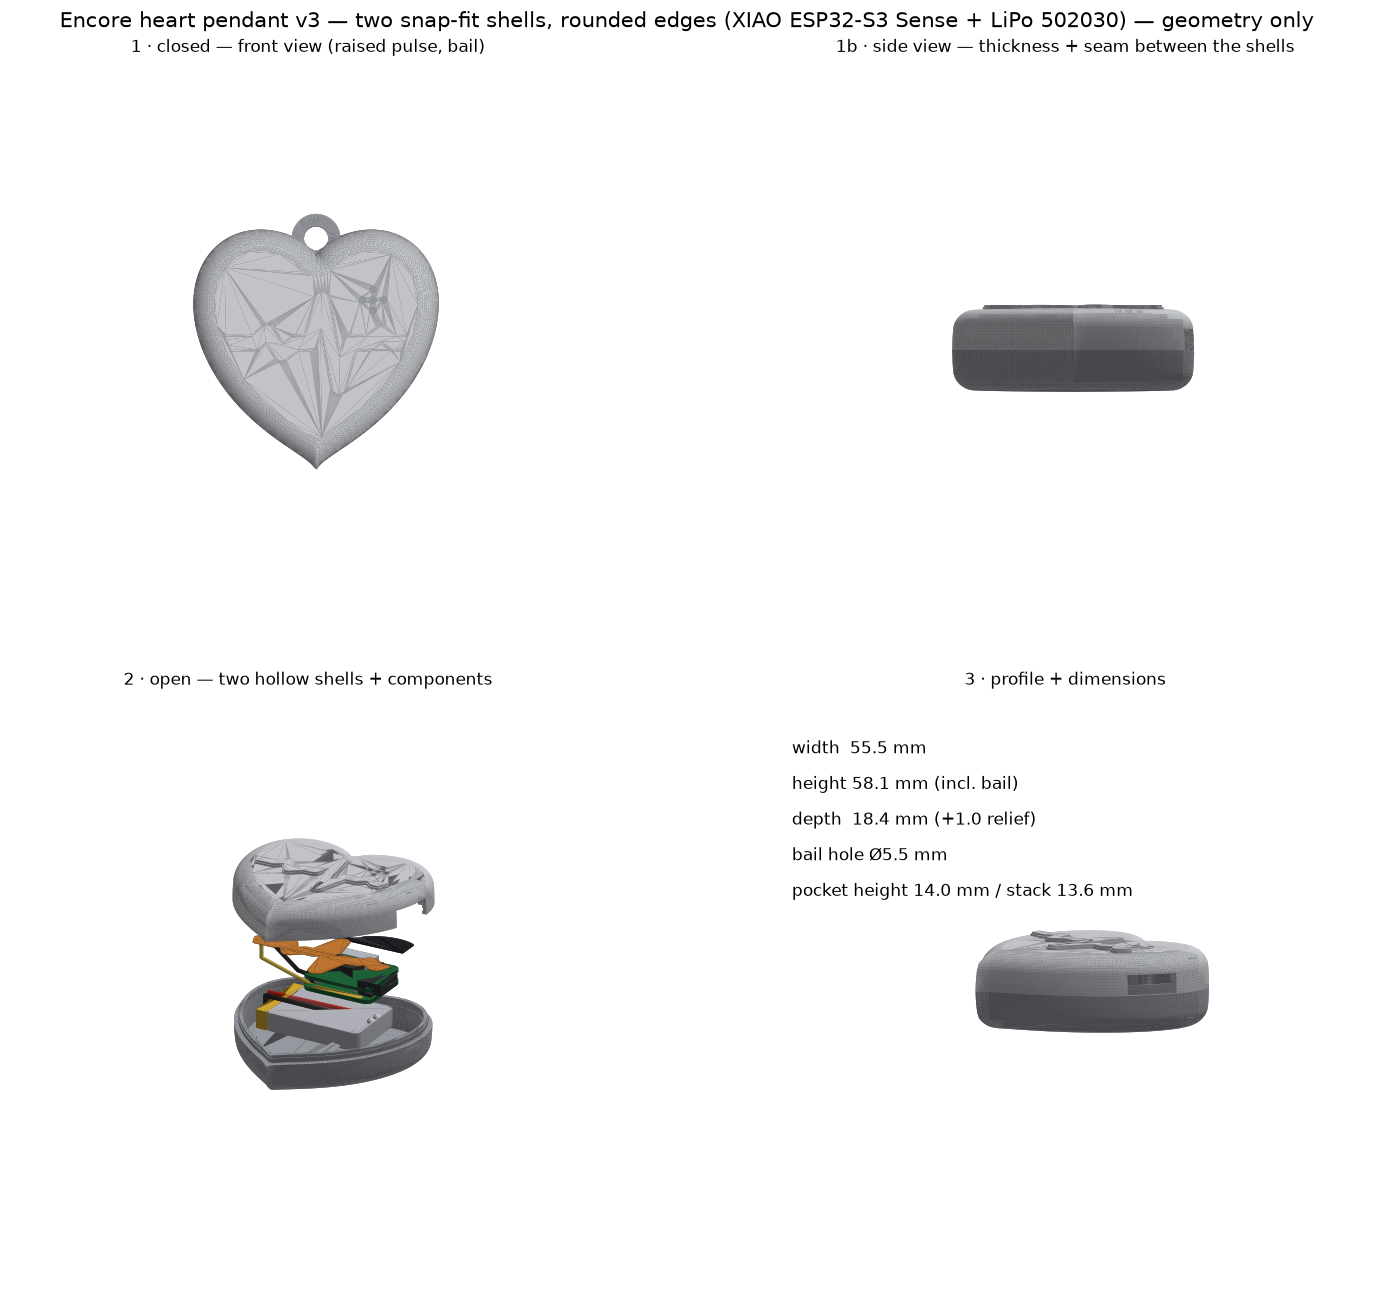
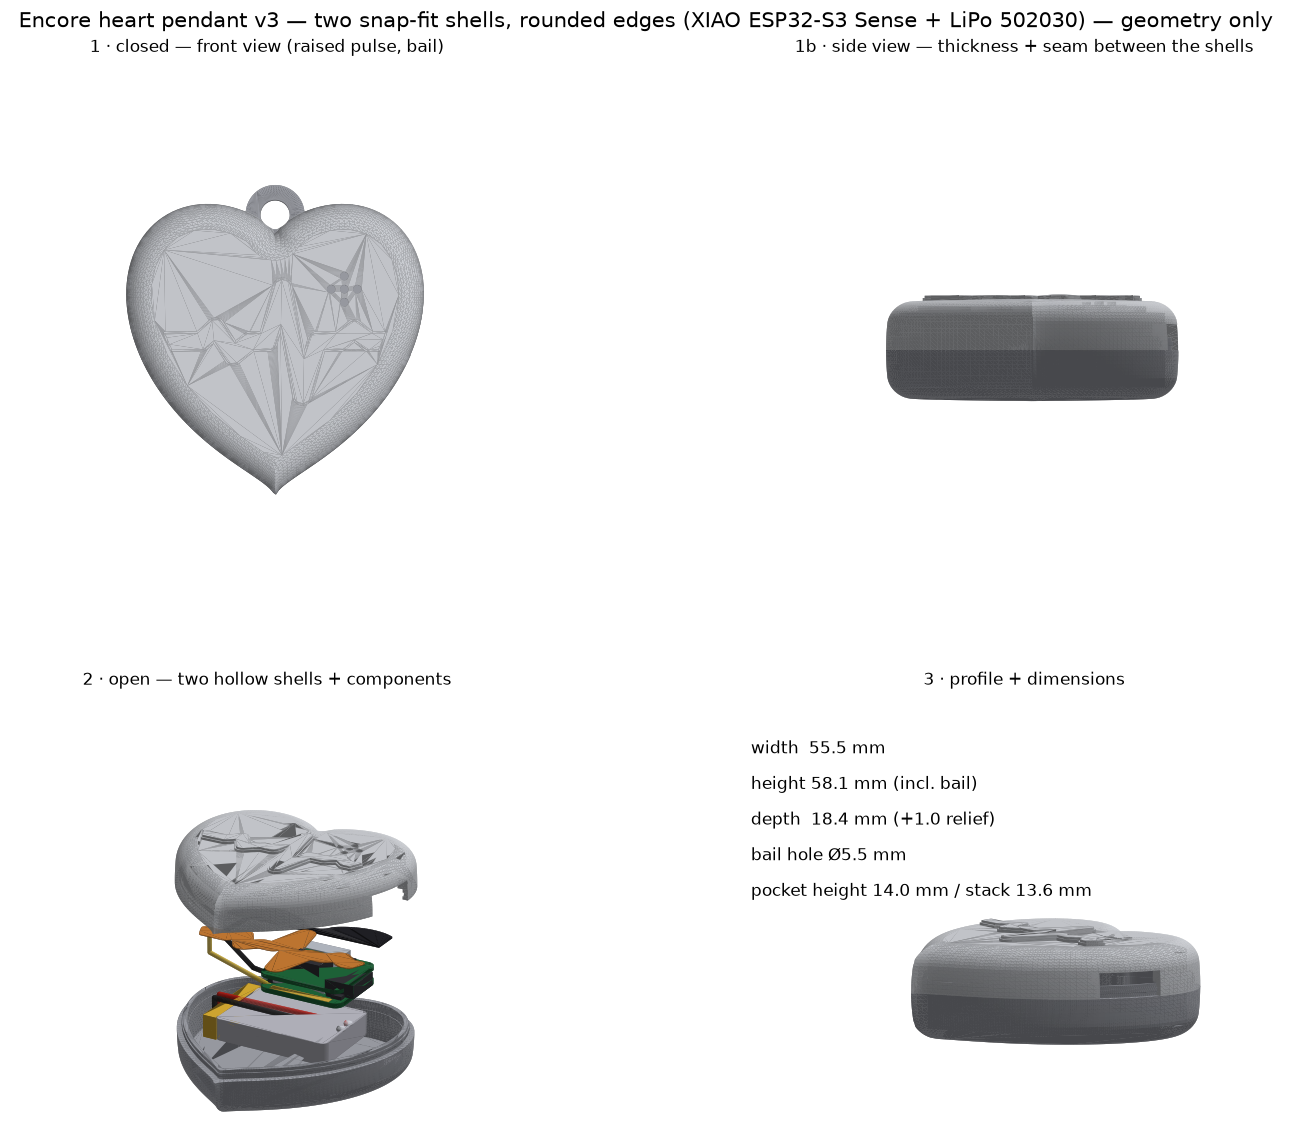
hardware: tighter framing for the four-views review image
Claude-Session: https://claude.ai/code/session_01FuUy41rXEWezFaUiaJoqoM

diff --git a/hardware/3dprint/pendant.py b/hardware/3dprint/pendant.py
@@ -396,10 +396,10 @@ def render(front, back, dummies, dims, out):
 
     panel(fig.add_subplot(2, 2, 1, projection="3d"),
           [(back, dgrey), (front, grey)],
-          "1 · closed — front view (raised pulse, bail)", 90, -90, 40)
+          "1 · closed — front view (raised pulse, bail)", 90, -90, 33)
     panel(fig.add_subplot(2, 2, 2, projection="3d"),
           [(back, dgrey), (front, grey)],
-          "1b · side view — thickness + seam between the shells", 0, -90, 40)
+          "1b · side view — thickness + seam between the shells", 0, -90, 33)
     fb = front.copy(); fb.apply_translation([0, 0, 36])
     lifted = []
     for m, c, ex in dummies.values():
@@ -407,9 +407,9 @@ def render(front, back, dummies, dims, out):
         lifted.append((mm, c))
     open_meshes = [(back, dgrey), (fb, grey)] + lifted
     panel(fig.add_subplot(2, 2, 3, projection="3d"),
-          open_meshes, "2 · open — two hollow shells + components", 24, -60, 48, 14)
+          open_meshes, "2 · open — two hollow shells + components", 24, -60, 40, 14)
     ax = fig.add_subplot(2, 2, 4, projection="3d")
-    panel(ax, [(back, dgrey), (front, grey)], "3 · profile + dimensions", 8, -32, 42)
+    panel(ax, [(back, dgrey), (front, grey)], "3 · profile + dimensions", 8, -32, 34)
     for tx, ty, s in [(.04, .90, f"width  {dims['width']} mm"),
                       (.04, .84, f"height {dims['height']} mm (incl. bail)"),
                       (.04, .78, f"depth  {dims['depth']} mm (+{dims['relief']} relief)"),
